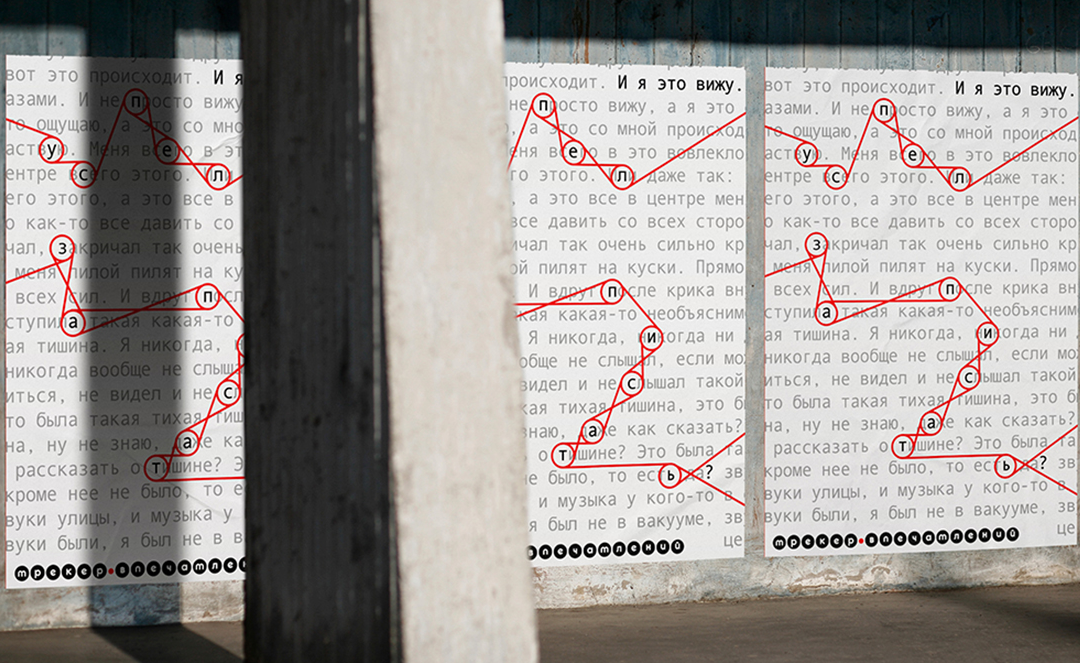
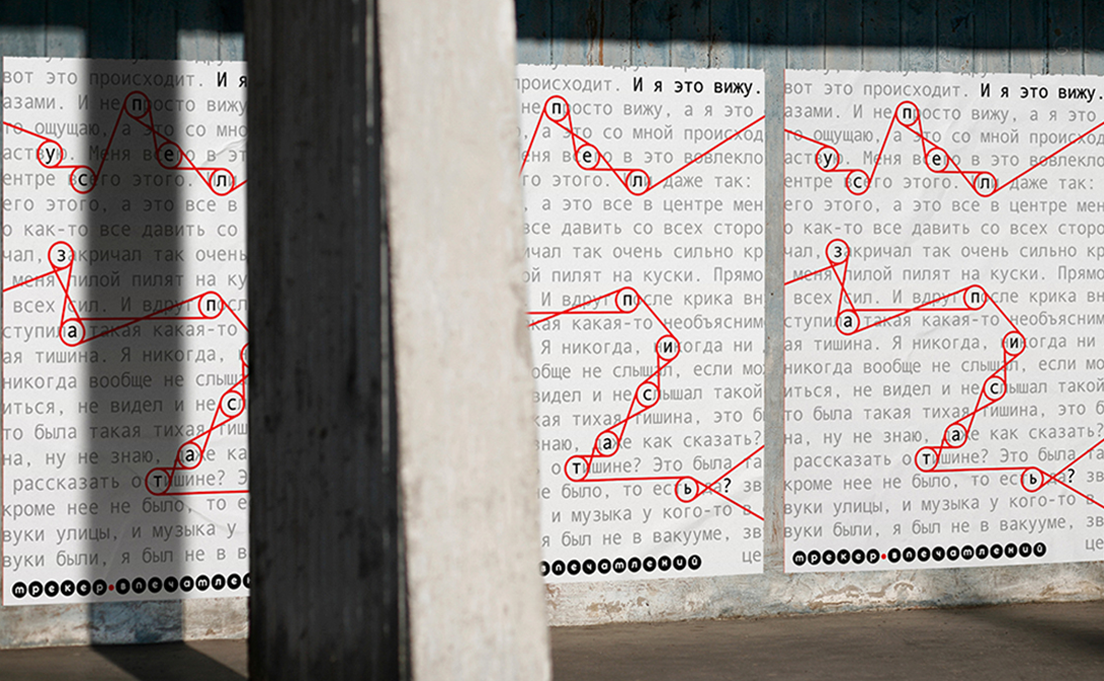
второе меню

Changed region(s): [[0.4583, 0.0603, 1.0, 0.9351], [0.0, 0.0603, 0.2444, 0.9653]]

diff --git a/style/layout.css b/style/layout.css
@@ -14,6 +14,81 @@ body.scheme {
   color: white;
 }
 
+.menu-content {
+  font-family: 'Montserrat', sans-serif;
+  padding: 0 0 0 50px;
+  font-size: 13px;
+}
+.collapsible-menu {
+  position: fixed;
+  z-index: 1000;
+  align-self: flex-end;
+  top: 12%;
+  right: 10vw;
+  background-color: transparent;
+}
+
+.collapsible-menu ul {
+  list-style-type: none;
+  padding: 0;
+}
+.collapsible-menu a {
+  display:block;
+  padding: 10px;
+  text-decoration: none;
+}
+
+.bold {
+  font-weight: bold;
+}
+
+li {
+  cursor: pointer;
+  text-align: right;
+  font-family: 'Montserrat', sans-serif;
+}
+
+.collapsible-menu label {
+  font-family: 'Montserrat', sans-serif;
+  font-size: 17px;
+  font-weight: bold;
+  text-align: right;
+  display: block;
+  cursor: pointer;
+  background: url('../images/burger-black.png') no-repeat left center;
+  background-size: 7%;
+  background-position: 65%;
+  padding: 10px 0 10px 50px;
+}
+input#menu {
+    display: none;
+}
+
+/* --------------------------- */
+
+.menu-content {
+    max-height: 0;
+    overflow: hidden;
+    font-family: 'Montserrat', sans-serif;
+    /* padding: 0 0 0 50px; */
+    /* position: absolute; */
+    margin-right: -10px;
+}
+/* Эффект переключения*/
+input:checked ~ label {
+    background-image: url("../images/cross.png");
+    background-position: 65%;
+    background-size: 3%;
+}
+input:checked ~ .menu-content {
+    max-height: 100%;
+    /* transition: all 0.7s ease; */
+}
+
+/* ----------------------------------- */
+
+
+
 header.running-line a {
   color: white;
 }
@@ -88,12 +163,15 @@ img.header-running-line4 {
 
 .header-menu {
   padding-top: 18px;
-  padding-right: 110px;
+  padding-right: 13vw;
   width: 23vw;
   display: flex;
   flex-direction: row;
   justify-content: space-between;
+}
 
+a.checkbox-a:hover {
+  text-decoration: underline;
 }
 
 a {
@@ -372,7 +450,7 @@ body.running-line main h3 {
   justify-content: space-between;
   height: 10vw;
   position: fixed;
-  top: 53%;
+  top: 75%;
   margin-left: 2%;
   z-index: 10;
 }

diff --git a/index.tracker.html b/index.tracker.html
@@ -43,9 +43,10 @@
       <h2>От&nbsp;простых форм, к&nbsp;чуть более сложным</h2>
       <img class="graphic-image" src="images/graphic-image.png" alt="">
       <img class="graphic-image" src="images/graphic-image2.png" alt="">
+      <p class="inscription">Упражнение по&nbsp;созданию графического образа к&nbsp;проекту.</p>
       <div id="logo" class="anchor">
       </div>
-      <h2>И.. получился логотип (или не&nbsp;получился)</h2>
+      <h2>И.. получился логотип <br>(или не&nbsp;получился)</h2>
       <img class="graphic-image" src="images/logo-documents.png" alt="">
       <div class="flags">
         <img src="images/suitcase.png" alt="">
@@ -76,7 +77,13 @@
           <img src="images/poster-tracker2.png" alt="">
         </div>
         <div class="slide3">
-          <img src="images/poster-tracker.png" alt="">
+          <img src="images/poster-tracker3.png" alt="">
+        </div>
+        <div class="slide4">
+          <img src="images/poster-tracker4.png" alt="">
+        </div>
+        <div class="slide5">
+          <img src="images/poster-tracker5.png" alt="">
         </div>
       </div>
     </div>

diff --git a/index2.html b/index2.html
@@ -19,6 +19,17 @@
       <a class="header" href="https://www.facebook.com/katya.kojara"><img src="images/fb-white.png" alt=""></a>
       <a class="header" href="https://t-do.ru/ekaterina_kozhara"><img src="images/tg-white.png" alt=""></a>
     </div>
+    <div class="collapsible-menu">
+      <input type="checkbox" id="menu">
+      <label for="menu">Версии</label>
+      <div class="menu-content">
+        <ul>
+          <li><a href="index.html">Метафора — чертеж</a></li>
+          <li><a class="bold" href="index2.html">Метафора — бегущая строка</a></li>
+          <li><a href="index3.html">Метафора — схема</a></li>
+        </ul>
+      </div>
+    </div>
     <div class="image-header">
       <img class="header-running-line" src="images/running-logo.jpg" alt="">
       <img class="header-running-line2" src="images/running-logo.jpg" alt="">

diff --git a/index3.html b/index3.html
@@ -19,6 +19,17 @@
       <a class="header" href="https://www.facebook.com/katya.kojara"><img src="images/facebook.svg" alt=""></a>
       <a class="header" href="https://t-do.ru/ekaterina_kozhara"><img src="images/telegram.svg" alt=""></a>
     </div>
+    <div class="collapsible-menu">
+      <input type="checkbox" id="menu">
+      <label for="menu">Версии</label>
+      <div class="menu-content">
+        <ul>
+          <li><a href="index.html">Метафора — чертеж</a></li>
+          <li><a href="index2.html">Метафора — бегущая строка</a></li>
+          <li><a class="bold" href="index3.html">Метафора — схема</a></li>
+        </ul>
+      </div>
+    </div>
     <main>
       <h4>Код.док — <br>новая площадка<br> для документального<br> театра, кино<br> и фотографии</h4>
 

diff --git a/index.html b/index.html
@@ -20,6 +20,17 @@
       <a class="header" href="https://www.facebook.com/katya.kojara"><img src="images/facebook.svg" alt=""></a>
       <a class="header" href="https://t-do.ru/ekaterina_kozhara"><img src="images/telegram.svg" alt=""></a>
     </div>
+    <div class="collapsible-menu">
+      <input type="checkbox" id="menu">
+      <label for="menu">Версии</label>
+      <div class="menu-content">
+        <ul>
+          <li><a class="bold" href="index.html">Метафора — чертеж</a></li>
+          <li><a class="checkbox-a" href="index2.html">Метафора — бегущая строка</a></li>
+          <li><a class="checkbox-a" href="index3.html">Метафора — схема</a></li>
+        </ul>
+      </div>
+    </div>
     <img class="header-img"src="images/header.svg" alt="">
     <main>
       <div class="poster">

diff --git a/style.tracker/layout.css b/style.tracker/layout.css
@@ -37,6 +37,7 @@ a {
   cursor: pointer;
   text-decoration: none;
   color: black;
+  font-family: "Montserrat", sans-serif;
 }
 
 a.header {
@@ -54,10 +55,10 @@ a.header-mini {
   display: inline-block;
   color: black;
   text-decoration:none;
-  font-size: 13px;
+  font-size: 15px;
   font-family: "Montserrat", sans-serif;
   font-weight: lighter;
-  margin-top: 4px;
+  margin-top: 2px;
 }
 
 a.header:after,
@@ -218,12 +219,15 @@ h4,
   width: 64vw;
   align-self: center;
   margin-top: 40px;
+  /* overflow: hidden; */
 }
 
-/*
-.slide1 {
-  background-image: url("images/poster-tracker.png");
+
+.slide4  {
+  overflow: hidden;
 }
+
+
 
 .slide2 {
   background-image: url("images/poster-tracker2.png");
@@ -231,7 +235,7 @@ h4,
 
 .slide3 {
   background-image: url("images/poster-tracker3.png");
-} */
+}
 
 .flags2 {
   margin-top: 40px;

diff --git a/slick/slick-theme.less b/slick/slick-theme.less
@@ -61,7 +61,7 @@
     opacity: @slick-opacity-default;
     -webkit-font-smoothing: antialiased;
     -moz-osx-font-smoothing: grayscale;
-    
+
     & when ( @slick-font-family = 'slick' ) {
         /* Icons */
         @font-face {

diff --git a/slick/slick.css b/slick/slick.css
@@ -89,6 +89,7 @@
 .slick-slide img
 {
     display: block;
+    width: 100%;
 }
 .slick-slide.slick-loading img
 {
